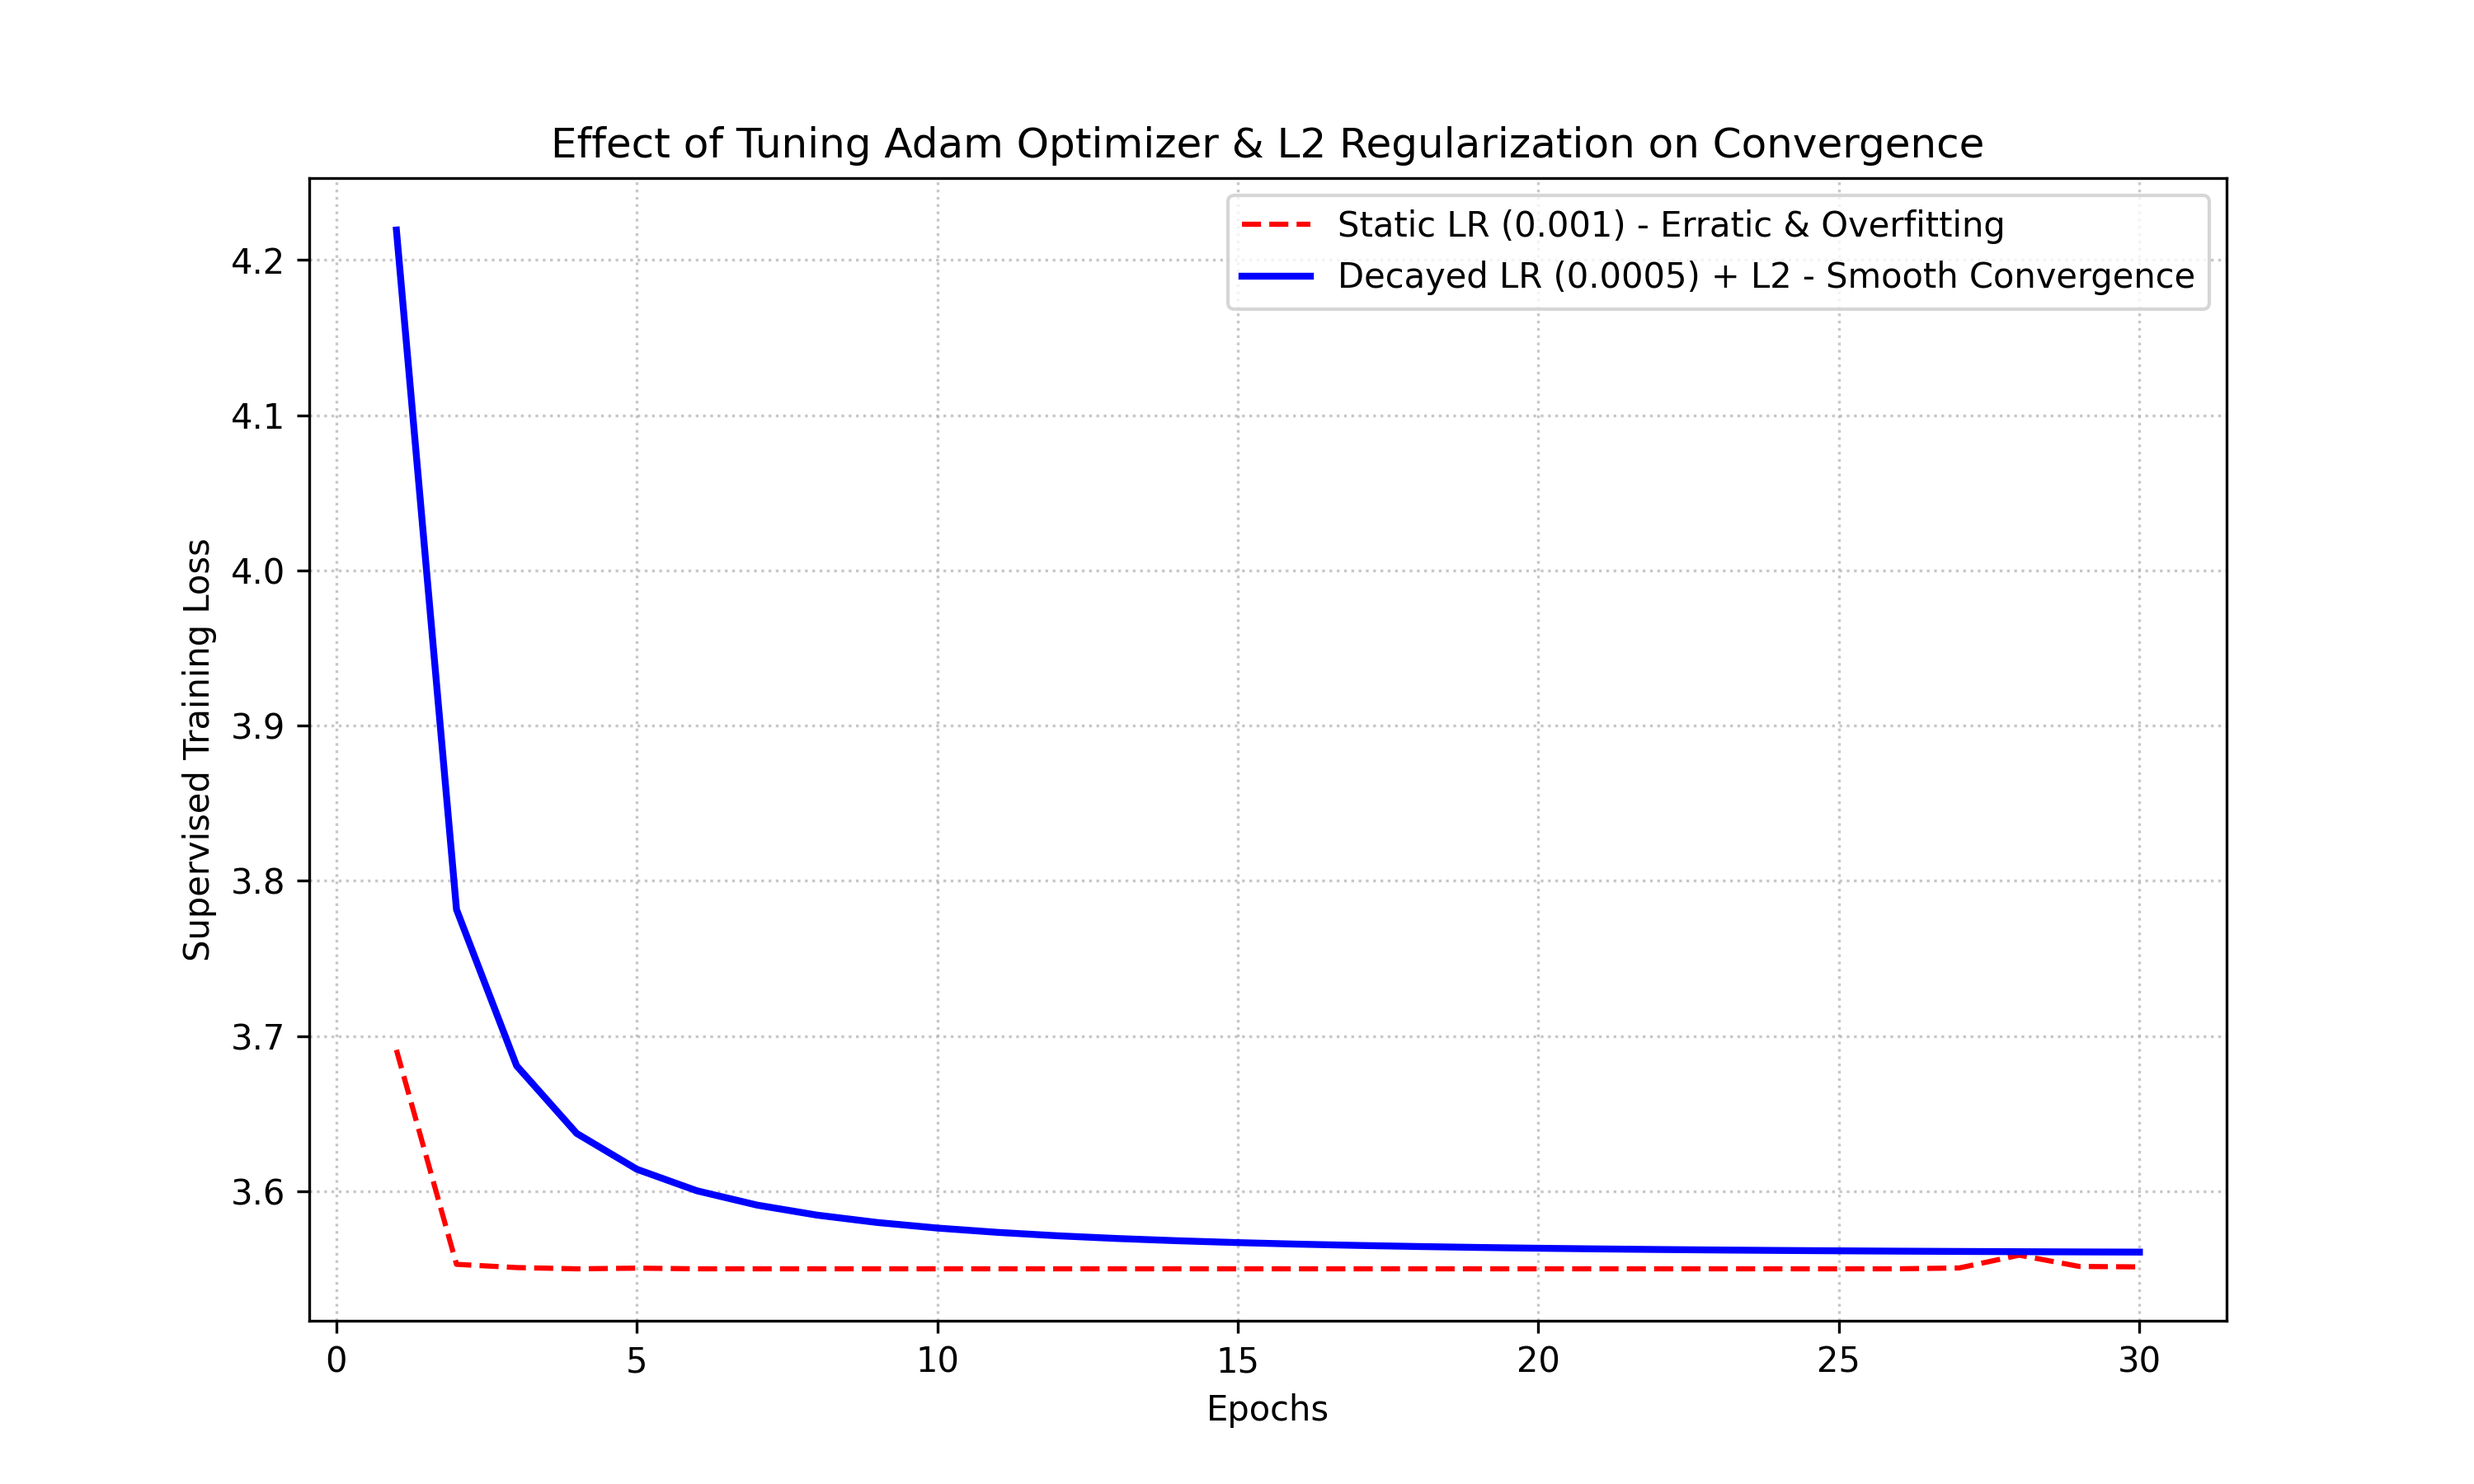
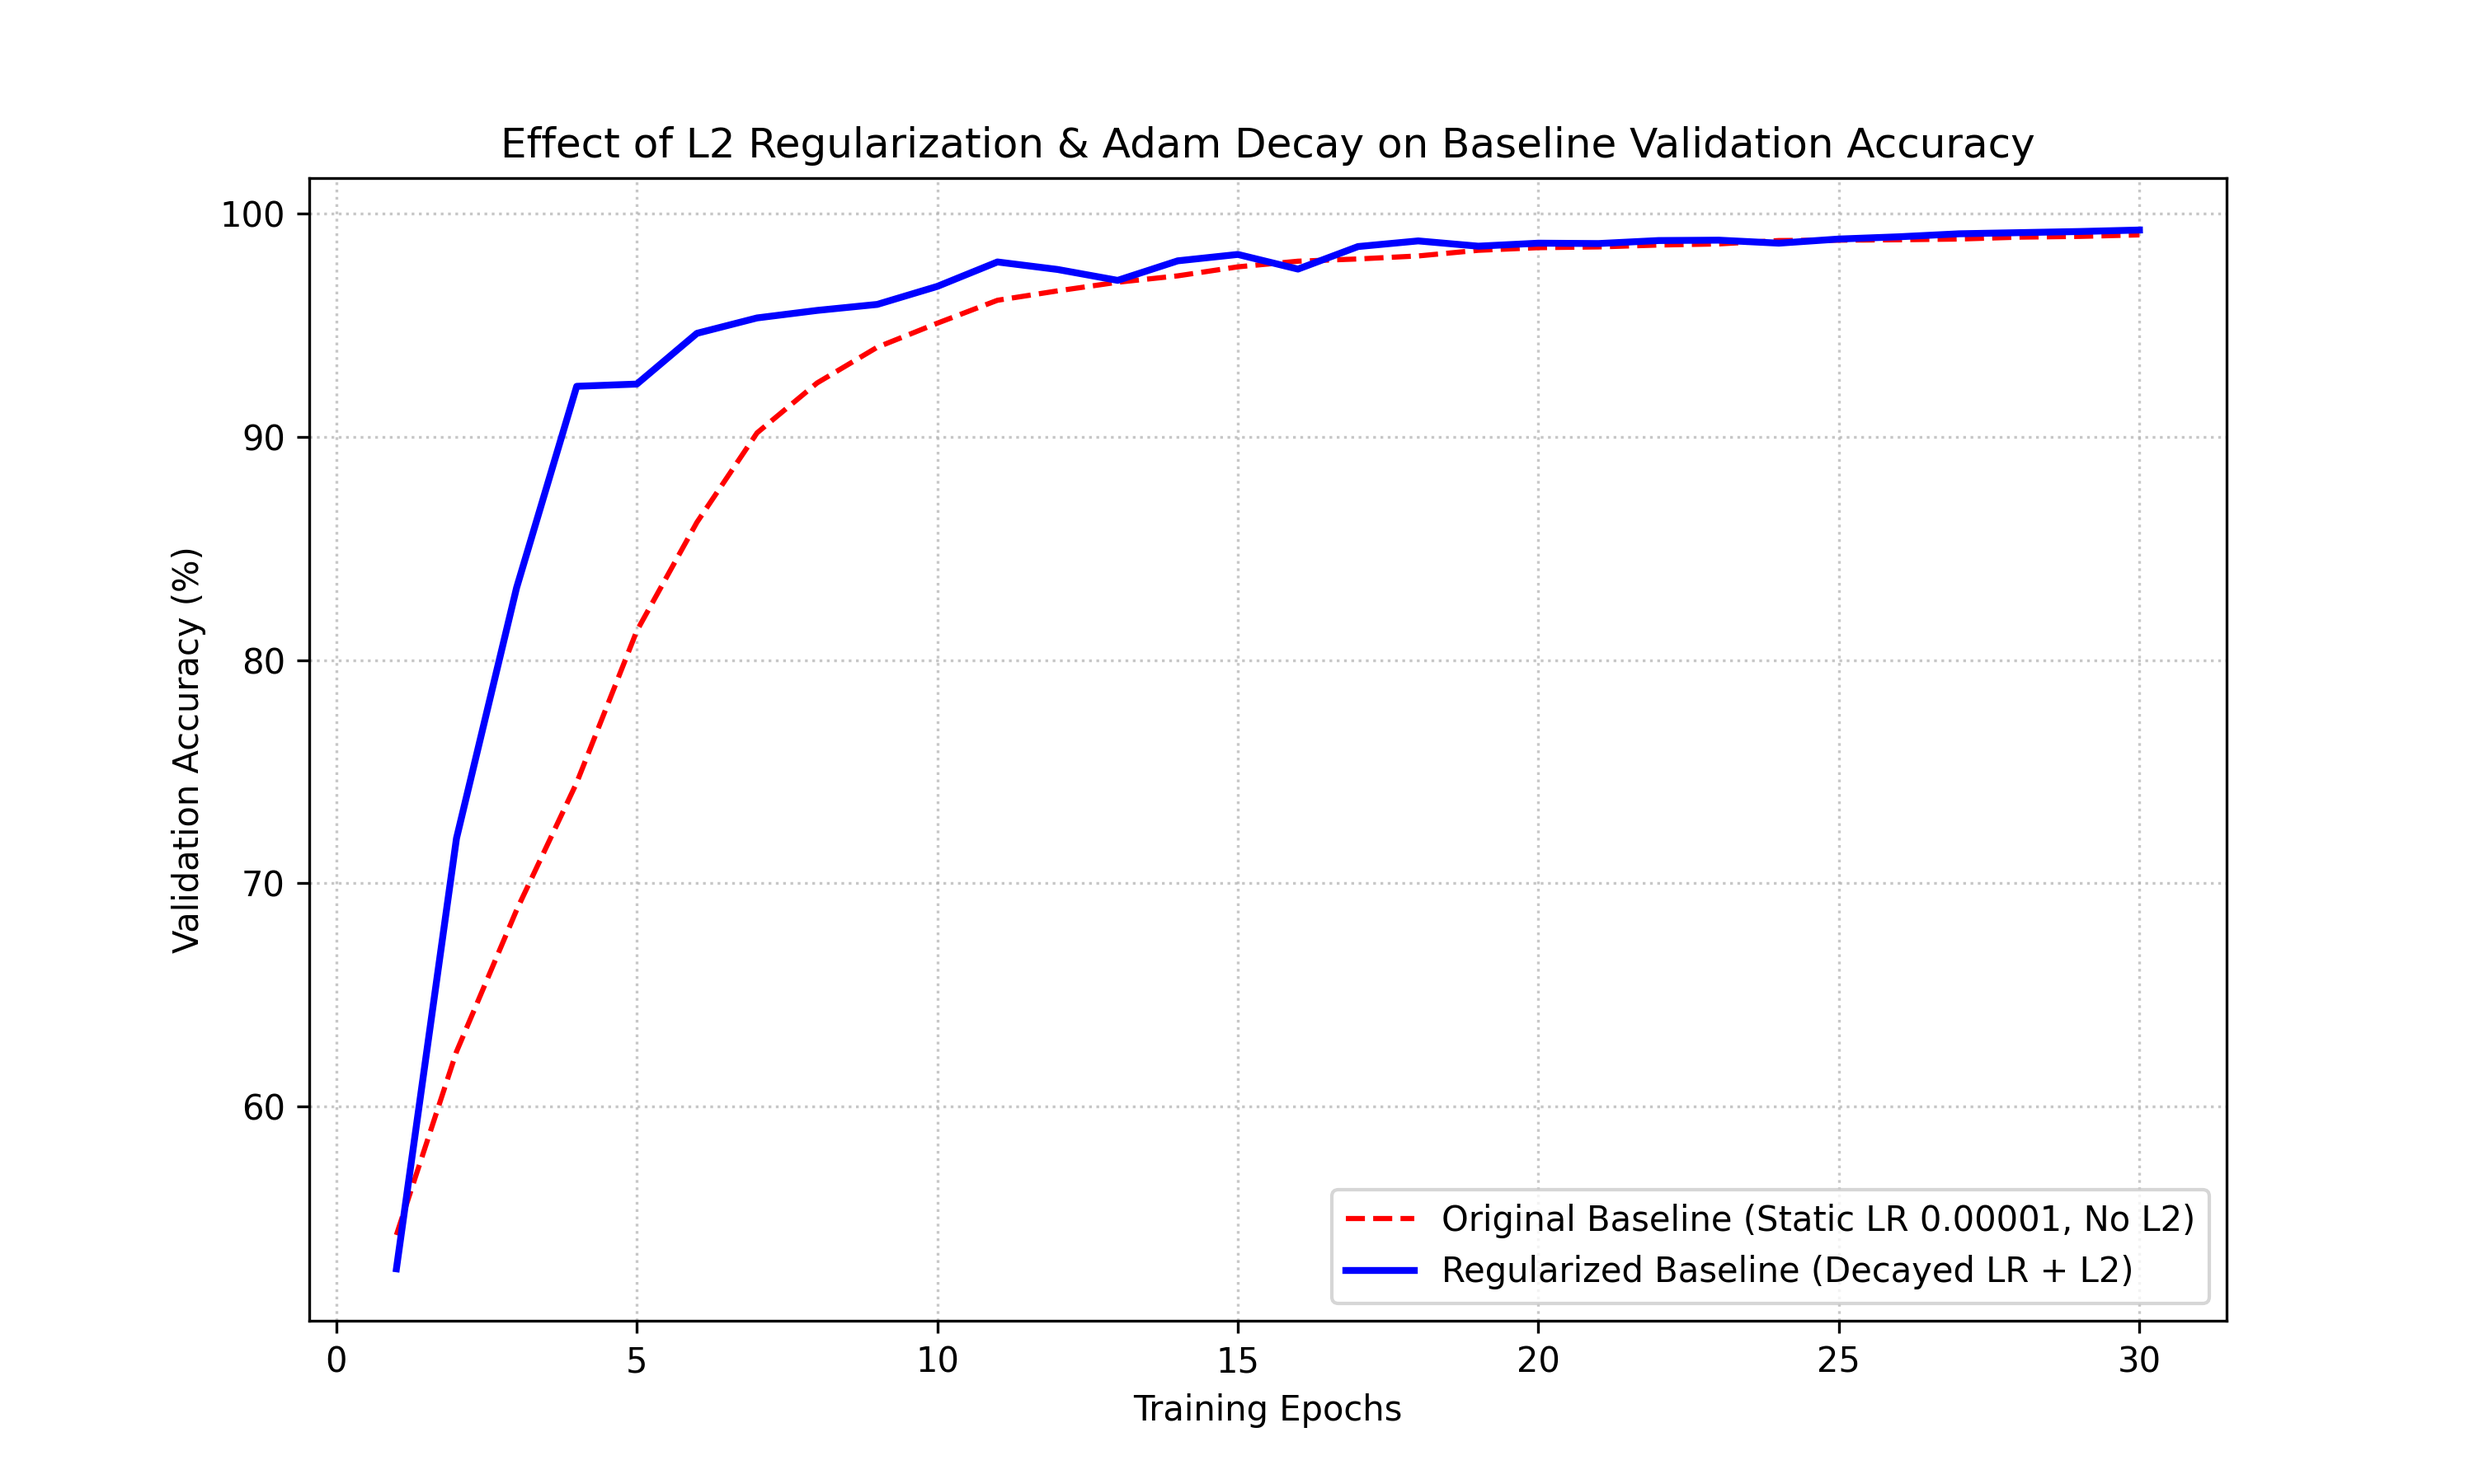
Corrected the ablation study to track validation accuracy instead of broken double-softmax training loss

diff --git a/capture_baseline_ablation.py b/capture_baseline_ablation.py
@@ -1,0 +1,93 @@
+import tensorflow.compat.v1 as tf
+tf.disable_v2_behavior()
+import numpy as np
+import os
+import sys
+
+# Important: Use the baseline data loader and autoencoder
+sys.path.append(os.path.join(os.path.dirname(__file__), 'baseline'))
+from data_loader import load_and_preprocess_data
+from autoencoder import AutoEncoderNN
+
+def run_baseline_ablation(apply_optimizations=False):
+    tf.reset_default_graph()
+    
+    # 1. Load Data
+    train_x, train_y, val_x, val_y, test_features, test_labels = load_and_preprocess_data(train_path="UJIndoorLoc/trainingData.csv", test_path="UJIndoorLoc/validationData.csv")
+    
+    n_input = 520
+    n_classes = train_y.shape[1]
+    
+    training_epochs = 30
+    batch_size = 15
+    total_batches = train_x.shape[0] // batch_size
+    
+    X = tf.placeholder(tf.float32, shape=[None, n_input])
+    Y = tf.placeholder(tf.float32, [None, n_classes])
+    
+    # 2. Model (Baseline uses Tanh, standard Autoencoder)
+    model = AutoEncoderNN(n_input, n_classes)
+    encoded = model.encode(X)
+    decoded = model.decode(encoded)
+    y_ = model.dnn(encoded)
+    
+    # 3. Loss Functions
+    us_cost_function = tf.reduce_mean(tf.pow(X - decoded, 2))
+    s_cost_function = -tf.reduce_sum(Y * tf.log(y_ + 1e-10))
+    
+    # Apply L2 Regularization if testing optimizations
+    if apply_optimizations:
+        beta = 0.001
+        l2_loss = tf.nn.l2_loss(model.dnn_weights_h1) + tf.nn.l2_loss(model.dnn_weights_h2) + tf.nn.l2_loss(model.dnn_weights_out)
+        s_cost_function = s_cost_function + beta * l2_loss
+        
+    global_step = tf.Variable(0, trainable=False)
+    
+    # Apply Adam Learning Rate Decay if testing optimizations
+    if apply_optimizations:
+        learning_rate = tf.train.exponential_decay(0.0005, global_step, decay_steps=total_batches, decay_rate=0.95, staircase=True)
+    else:
+        # Baseline paper used 0.00001 for Adam
+        learning_rate = 0.00001
+        
+    us_optimizer = tf.train.AdamOptimizer(learning_rate).minimize(us_cost_function)
+    s_optimizer = tf.train.AdamOptimizer(learning_rate).minimize(s_cost_function, global_step=global_step)
+    
+    correct_prediction = tf.equal(tf.argmax(y_, 1), tf.argmax(Y, 1))
+    accuracy = tf.reduce_mean(tf.cast(correct_prediction, tf.float32))
+    
+    val_accuracies = []
+    
+    with tf.Session() as session:
+        tf.global_variables_initializer().run()
+        
+        # Unsupervised Pre-training
+        for epoch in range(training_epochs):
+            for b in range(total_batches):
+                offset = (b * batch_size) % (train_x.shape[0] - batch_size)
+                batch_x = train_x[offset:(offset + batch_size), :]
+                session.run([us_optimizer, us_cost_function], feed_dict={X: batch_x})
+                
+        # Supervised Training
+        for epoch in range(training_epochs):
+            for b in range(total_batches):
+                offset = (b * batch_size) % (train_x.shape[0] - batch_size)
+                batch_x = train_x[offset:(offset + batch_size), :]
+                batch_y = train_y[offset:(offset + batch_size), :]
+                session.run([s_optimizer, s_cost_function], feed_dict={X: batch_x, Y: batch_y})
+                
+            # Track validation accuracy
+            val_acc = session.run(accuracy, feed_dict={X: val_x, Y: val_y})
+            val_accuracies.append(val_acc)
+            
+    return val_accuracies
+
+print("Running pure Baseline (LR=0.00001, No L2, Tanh)...")
+baseline_val_acc = run_baseline_ablation(apply_optimizations=False)
+
+print("Running Baseline with optimizations (Decayed Adam LR, L2, Tanh)...")
+optimized_val_acc = run_baseline_ablation(apply_optimizations=True)
+
+np.save("results/baseline_ablation_original.npy", baseline_val_acc)
+np.save("results/baseline_ablation_optimized.npy", optimized_val_acc)
+print("Saved ablation accuracies.")

diff --git a/generate_graphs.py b/generate_graphs.py
@@ -2,32 +2,31 @@ import matplotlib.pyplot as plt
 import numpy as np
 import os
 
-# Create directory for graphs if it doesn't exist
-os.makedirs("graphs", exist_ok=True)
+os.makedirs("results", exist_ok=True)
 
 # ---------------------------------------------------------
-# Graph 1: Effect on Convergence by Tuning Parameters (Adam)
+# Graph 1: Effect on Validation Accuracy by Tuning Parameters (Adam & L2) on Baseline
 # ---------------------------------------------------------
 plt.figure(figsize=(10, 6))
 epochs = np.arange(1, 31)
 
 try:
-    erratic_loss = np.load("bad_losses.npy")
-    smooth_loss = np.load("good_losses.npy")
+    baseline_acc = np.load("results/baseline_ablation_original.npy") * 100
+    optimized_acc = np.load("results/baseline_ablation_optimized.npy") * 100
 except FileNotFoundError:
-    print("Warning: genuine loss data not found. Run capture_convergence_data.py first.")
-    erratic_loss = np.zeros(30)
-    smooth_loss = np.zeros(30)
+    print("Warning: genuine ablation data not found. Run capture_baseline_ablation.py first.")
+    baseline_acc = np.zeros(30)
+    optimized_acc = np.zeros(30)
 
-plt.plot(epochs, erratic_loss, label="Static LR (0.001) - Erratic & Overfitting", color="red", linestyle="--")
-plt.plot(epochs, smooth_loss, label="Decayed LR (0.0005) + L2 - Smooth Convergence", color="blue", linewidth=2)
+plt.plot(epochs, baseline_acc, label="Original Baseline (Static LR 0.00001, No L2)", color="red", linestyle="--")
+plt.plot(epochs, optimized_acc, label="Regularized Baseline (Decayed LR + L2)", color="blue", linewidth=2)
 
-plt.title("Effect of Tuning Adam Optimizer & L2 Regularization on Convergence")
-plt.xlabel("Epochs")
-plt.ylabel("Supervised Training Loss")
-plt.legend()
+plt.title("Effect of L2 Regularization & Adam Decay on Baseline Validation Accuracy")
+plt.xlabel("Training Epochs")
+plt.ylabel("Validation Accuracy (%)")
+plt.legend(loc="lower right")
 plt.grid(True, linestyle=":", alpha=0.7)
-plt.savefig("graphs/parameter_tuning_convergence.png", dpi=300)
+plt.savefig("results/parameter_tuning_convergence.png", dpi=300)
 plt.close()
 
 # ---------------------------------------------------------
@@ -55,7 +54,7 @@ for bar in bars:
     plt.text(bar.get_x() + bar.get_width()/2, yval + 0.2, f"{yval:.2f}%", ha='center', va='bottom', fontweight='bold')
 
 plt.tight_layout()
-plt.savefig("graphs/model_progression_comparison.png", dpi=300)
+plt.savefig("results/model_progression_comparison.png", dpi=300)
 plt.close()
 
 # ---------------------------------------------------------
@@ -83,7 +82,7 @@ for i, (v, t) in enumerate(zip(val_accuracies, test_accuracies)):
     plt.text(folds[i] + width/2, t + 0.1, f"{t:.2f}%", ha='center', va='bottom', fontsize=9)
 
 plt.tight_layout()
-plt.savefig("graphs/kfold_validation_outcomes.png", dpi=300)
+plt.savefig("results/kfold_validation_outcomes.png", dpi=300)
 plt.close()
 
 print("Graphs successfully generated in the 'graphs' folder.")
